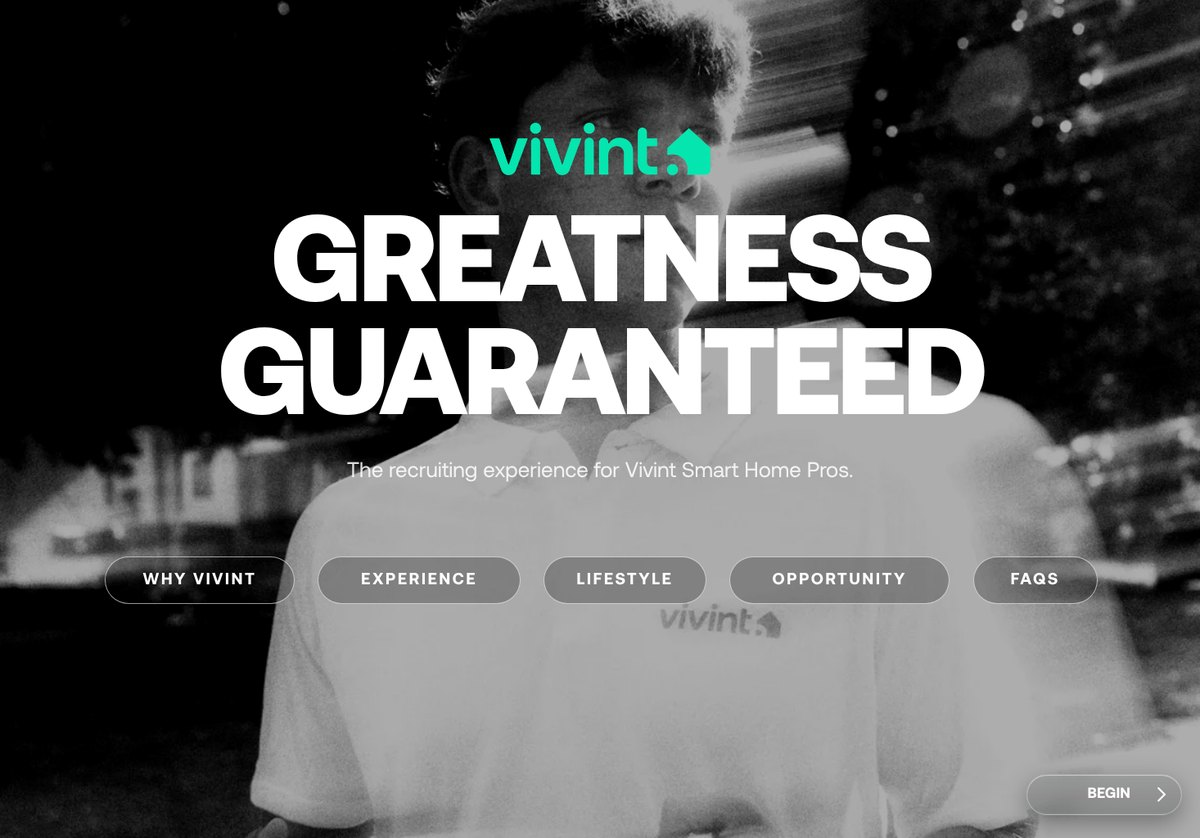
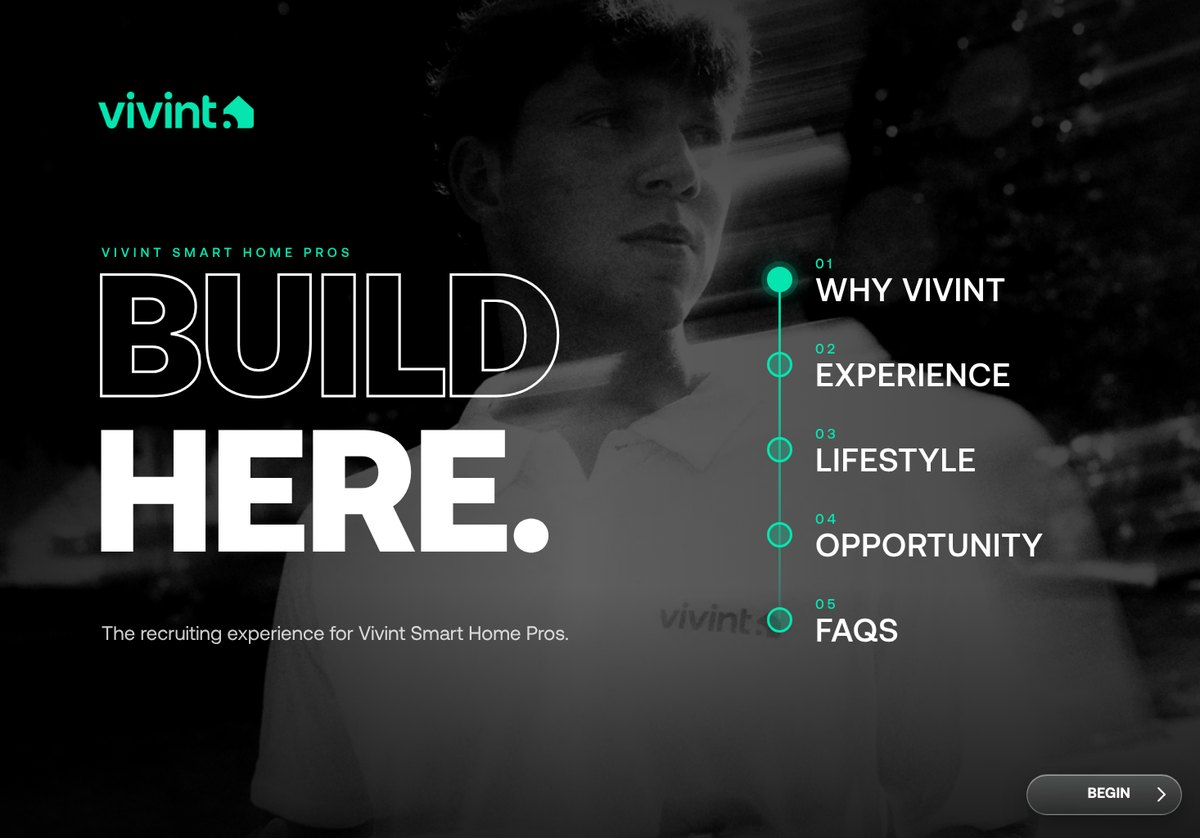
New landing page: BUILD HERE. headline and an enlarged section-menu style page list; link preview updated
Claude-Session: https://claude.ai/code/session_01UpWN8MKEyV4Vr82z9ArVS7

diff --git a/sw.js b/sw.js
@@ -1,5 +1,5 @@
 // Fast Recruit offline cache: everything except videos is saved on first launch, so the app opens without a connection.
-const V = 'fast-recruit-503f0cc7c2', PRE = ["a_0408edb82f30f336bffac638867be6bc.webp", "a_04b394b31439e528c8b5f63f44f2a0b6.webp", "a_0aa06d83464b8820edd3bfc544a95cee.webp", "a_0d2ddb52f866e46cd8388590667d4c4d.webp", "a_0d913801e34e1d8a11033ceaafd14109.webp", "a_11959d1d46bcbd5717b0bc54cf83e844.webp", "a_1288f43855ea422608fa8af379d37338.webp", "a_18c6da209798ef64b8e1ffbceaf69291.otf", "a_18cbdd108bdf9f60674f40f456e7f375.otf", "a_1b2f09f21b54334297a322358e735a25.webp", "a_1b48837719f96a87e2b2cfe5e00346dc.webp", "a_1c68cbad2929c0da81c27fc6d34fca3c.png", "a_1d17da7e3562b1a110b7b09ae99010f6.webp", "a_1f3d709c32dbf093df6058f97a065641.webp", "a_21c6123734ba0110be5173f550db98c1.webp", "a_242f58b1436638aa5d29b0be31eca403.webp", "a_2485046ffdd3b92ec9ad5ced9538d99a.webp", "a_248ea547d804798e4cc1643061a9bf58.webp", "a_27059b77dcdcfcd20a817abb05db3c84.webp", "a_27974bda65412130fb0b1a0180854d97.webp", "a_2bc22f6e03ad960de86f8b6441fd3356.webp", "a_2cf1141ea024d7b06156b9c1da976cdf.webp", "a_2d7d677c8650b82e85a56ab43363272c.webp", "a_2f62f82154c8578e75cbd5c4838b0209.webp", "a_2f987e8f09c8de2c2234483a052585e2.webp", "a_30ad318aafac9fa8373f5cda60a0dc98.webp", "a_37831b9db94c5cf6a5bfda59503cbb02.webp", "a_3796b33cd0cc8a96d19cb4a99123b36c.webp", "a_39fe3c98e1c5bcea7ff0bf6de0a49b7a.webp", "a_3a2bcdc743cdec4e9dd1e45e04457547.otf", "a_3b0d5c51a89c14bea925cd241350a524.webp", "a_3bbe4390dbec137628c1521f6b657ab5.otf", "a_3d6cd5c603a10c6bd739c4396c62af17.webp", "a_3efc6ac4570303d6ef7e4a1a90617627.webp", "a_3f74f38e9c213111b169c5cf8991d830.webp", "a_42cae177dbf79313c5934dab3c3a7f2d.webp", "a_4350cce9bf86210af2f6b19b3d2b5e87.webp", "a_43a447eff7f469789dda51c124f0ca52.webp", "a_43fd0985e8c32c602f354dadbeea41aa.webp", "a_44b612d3f72956ce700bac57dab2a4a1.webp", "a_47aa3911a6c7914f134c1a7d565cd861.webp", "a_49a1ff6541c1eddf28e1fe4276cd8080.webp", "a_4a93498586ade0b65522c8d8e83b85a8.webp", "a_4c54ea5a368d41c1370d8f42bd358f40.webp", "a_4eb515036f76ce2183e58dc42868fc44.webp", "a_52eac5d62e395739f7b8e3b9c2b70515.webp", "a_53a4e94a2219624d3d93646b7280df96.webp", "a_54b728689a022f1937d26139a645bc9d.webp", "a_559acad5ae1afbaa1a07ab562568c842.png", "a_56045168c18f6f28a36b9850374ffb27.webp", "a_5773f25323ca6b7991f223248a94726d.webp", "a_59a23c3ad3bf595bf4535f11186f4406.otf", "a_5a059e4c0c6879b04d9401b9be03561d.webp", "a_5e853c436589567cf4f4286f1fc3a5e6.webp", "a_603bb16680e43b65aa02dbc28e2c013f.webp", "a_6077066d3817389a8ff4daaf416af644.webp", "a_6136d8598de34dfb02d8d5ecb97d510c.webp", "a_61e371568ed904f426b41958220c1603.webp", "a_623129128d2c0c71a36aa8cc1e636f1d.webp", "a_645220e9685b361d863b496a33908a63.webp", "a_6721230c3ebd9ae91f943e5d829309b0.webp", "a_6942b1b86be02223eb31e212e3ebda06.webp", "a_6a1df764c1da42bf03a018a4bd5b75ea.webp", "a_6bc7b27335de198506d151756b0b694b.otf", "a_6c29f25842e1f7717406736e1e091fda.webp", "a_6c69e336cca8c7a1880b2d8afd97465c.webp", "a_703e423ff80101dab818d16f2eff4e12.webp", "a_71818041660c2fa4454b5fc26642b2d7.webp", "a_721134187c1e3cb84a6169cd7d3451f6.otf", "a_72b2d30961d461ab9c866f0db648b2ea.webp", "a_72ef2470189b8e8d8620a3e4c1217c54.webp", "a_75443e2b0cdfdf348c8b32293954e9f1.webp", "a_7ac79c527f6187bd92021934701620ac.otf", "a_7bb8c1b0aea1d21a786469b94284e33a.webp", "a_7bfeca4ff214bc1f15c80c3e08ceb8a1.otf", "a_7e419ea00d236e4abec94bb07c68be79.webp", "a_7ee3fe43146089c6287839f24935de69.webp", "a_812e61e5191550722d0513bd4de866fa.webp", "a_812f7ba9284a5123ce0aed7d655602a6.webp", "a_876a1fe2bbfdcaadb69c46bef14dd5ab.webp", "a_8817e3e4838dc66c7705da3edba9ee4e.webp", "a_89d381328713affff7bdf1d1beb1569b.webp", "a_8c8249759af7dff87ef6df8a8a645f23.webp", "a_8c8b7db52ce1c0a7ed3b1cb2a4d6c799.webp", "a_8cdc7c93880be0cdf12850c3e33aad46.webp", "a_8e86da81ac279b8fd8f97801c2f29716.webp", "a_92713904c7fb1bf9225b19e0f3c9e748.webp", "a_9472be87e42bbc64e1a97a23494f6d61.webp", "a_95b94717727cf7a06b4ab04076c6c27e.webp", "a_971f9d9f94efd2f4bd9a233f51926f6d.webp", "a_993fc35b62a39addbac11c5143570d34.webp", "a_9a9951a9137854ed9078fbddbd40e9b5.webp", "a_9d43e082c98277b9345c063d4ea336ab.webp", "a_9e37956db89b453f45ff780847793061.png", "a_9f3bf660b6eb1ce16cd77e37f8bc7707.webp", "a_a3107c78868cb9924be75b24efabb2c0.webp", "a_a5ca951b24e4d1c9f8ebcdb4b9c33557.webp", "a_a661bcc467d3c851dbcb1983a26ff820.webp", "a_a7f3329f91bcad3fe06bb1634b16cd20.webp", "a_a7f5c9a2768f8fe1a2d442edf058dcaf.webp", "a_aae93dc4ab0ed6a37fdc7bb0d21cb358.webp", "a_abc1996550735d37aeee3ab560cd78fa.webp", "a_b0145f4c014443135ff90c7fec0d2a12.webp", "a_b025aed39c8d816367587f4a155fa333.webp", "a_b23e0c00eb3fa1c96f93c6adf72230ea.webp", "a_b53317ee4bde42fe03940ceff40297fc.webp", "a_b5a9f97fec8a450c5e4071098f0a4c7a.webp", "a_b8da9cf3868de55e9410abbc902ac464.webp", "a_baab866c48068b16edbc13cec09c9f98.webp", "a_bdd6b4fe4a2b52d907d354736c5dcdff.webp", "a_be3a7b2cc5c42f12e6fb1b4ab62727dd.webp", "a_c3ee80b47f4cefa711e4ae8388f7d600.otf", "a_c4153cc59dcd5b3845cfdc97dd908f19.webp", "a_c4514d8bae30da00c9166cc05f0ff764.webp", "a_c5cf5e5b726ee7bad5533a2bf3b59ee2.png", "a_c69348bf07426152f69f355455c0a7a3.webp", "a_cdaba01fb6c09da85514dd164bda31e2.otf", "a_cdcb3af09b7ae03ac5a419d1f3c56d06.webp", "a_cf726eb166f17589ae13f71cb0404f59.webp", "a_d18bc454c994bcdf2ef993c90e5ffc8e.webp", "a_d224681f8eb11ed34f1d0c3a2cfc71b4.otf", "a_d2ae296207a473ed8243a83a24dda951.webp", "a_d416d4ecb336013e47f9c1cd4f0526f1.webp", "a_dca51196a80ae2cb04adf945855ea283.webp", "a_dcb95084f01d957fcc91fe21982a44f4.webp", "a_dd647bf93d36575ec782f453f0193f8e.otf", "a_de9eed867877409028061b22235fb468.webp", "a_df10c8837c9e986ece1471c88f2beabc.webp", "a_dfe646b0d086879c6e746523ffd45599.webp", "a_e34b82d397ba79fb1ddf5160c815287c.webp", "a_e79923f32b5e52e29084d9bfa523c401.webp", "a_e886f8e86180c42f96109338d7877c5b.webp", "a_e91e21ff31fe8facf0cc1ddf1f2cda77.webp", "a_e98fb0624b5c8221e68bf451ee25d97b.webp", "a_e9c4d6c2c2548b1a4ab4825c9860d5e1.webp", "a_f16555e229b0d3f53d797beb6a44cbb2.webp", "a_f41b71be9e283ce9a428f9407f93e11e.webp", "a_f55b2e71a0253a1fa7d1eec85f7afe05.webp", "a_f683655a1c68b210adf194cbf62bd7dc.webp", "a_f747a8b7f6c1c141c16a0df8b539fe5c.otf", "a_f9d6d41fd957efa1b2bebdc58f7d670f.webp", "a_fb737a5fe9ec3193ba239f5a589dcb66.webp", "a_fb9b1a4fed5c17172ce9dba78f99c32f.webp", "a_ff412b1956c7660da83a2975c3e29a8e.webp", "a_fff50c09d38f99818c907ae17fc2676e.webp", "am_04b394b31439e528c8b5f63f44f2a0b6.webp", "am_05907ad564dbbee1b725e11dfe61c164.webp", "am_0ae914cc303f1b14d10398f409e89f2d.webp", "am_12c880a04bc45bd5295bba6da7c4c811.webp", "am_1670aaaa901b257243c17e74d5e70c2f.webp", "am_19a9f30b96da1c37c75b45712cce806f.webp", "am_1b48837719f96a87e2b2cfe5e00346dc.webp", "am_1b9d736047fcdf3e5414c04bfa499fc5.webp", "am_1c98b66b51ca0675993321e95a01adc0.webp", "am_1d17da7e3562b1a110b7b09ae99010f6.webp", "am_1f3d709c32dbf093df6058f97a065641.webp", "am_2028ceacef7a3d9794d62b457e037e65.webp", "am_242f58b1436638aa5d29b0be31eca403.webp", "am_27974bda65412130fb0b1a0180854d97.webp", "am_2cf1141ea024d7b06156b9c1da976cdf.webp", "am_355f9936f19ec153715b1946202beb5b.webp", "am_3796b33cd0cc8a96d19cb4a99123b36c.webp", "am_39fe3c98e1c5bcea7ff0bf6de0a49b7a.webp", "am_3b0d5c51a89c14bea925cd241350a524.webp", "am_42cae177dbf79313c5934dab3c3a7f2d.webp", "am_453898bb40a590bec02c96072ecdfa06.webp", "am_48ee496ca0b2ca47f73ee8922fa920f3.webp", "am_4c54ea5a368d41c1370d8f42bd358f40.webp", "am_5280c3f3d0f6da932ce1b43035e6b12a.webp", "am_52eac5d62e395739f7b8e3b9c2b70515.webp", "am_53a4e94a2219624d3d93646b7280df96.webp", "am_559acad5ae1afbaa1a07ab562568c842.webp", "am_5d97f06d266185fa60dec1e5027d9243.webp", "am_5e853c436589567cf4f4286f1fc3a5e6.webp", "am_603bb16680e43b65aa02dbc28e2c013f.webp", "am_6136d8598de34dfb02d8d5ecb97d510c.webp", "am_61e371568ed904f426b41958220c1603.webp", "am_623129128d2c0c71a36aa8cc1e636f1d.webp", "am_6721230c3ebd9ae91f943e5d829309b0.webp", "am_675c63b4e94b022eb2cc5010da119b80.webp", "am_6c29f25842e1f7717406736e1e091fda.webp", "am_6c69e336cca8c7a1880b2d8afd97465c.webp", "am_703e423ff80101dab818d16f2eff4e12.webp", "am_71657b01c835ce6e55e751af2ab0ef18.webp", "am_7bb8c1b0aea1d21a786469b94284e33a.webp", "am_7cebbf09967857148e7a37ea060aa39e.webp", "am_7cf127109cf683ca2c040533c6c9aee8.webp", "am_7ee3fe43146089c6287839f24935de69.webp", "am_858f0c6afb1bddb0d50e7c5325d74dfc.webp", "am_8599b9782d9049397002b3cac22994e3.webp", "am_8c8b7db52ce1c0a7ed3b1cb2a4d6c799.webp", "am_8ea796e98761b3176b69fa2b3666ce20.webp", "am_91778effb50c25d8cc4c319beeed6287.webp", "am_92713904c7fb1bf9225b19e0f3c9e748.webp", "am_9607a9522dd50fe97b0bc18097c6e255.webp", "am_9694a9e4fe16263a16d97581e3cd7edf.webp", "am_971f9d9f94efd2f4bd9a233f51926f6d.webp", "am_9b0ad1860e2b6446d96c2ba73803707c.webp", "am_9f3bf660b6eb1ce16cd77e37f8bc7707.webp", "am_a17b67c1050b5160ea9875fa56dfb3a7.webp", "am_a661bcc467d3c851dbcb1983a26ff820.webp", "am_aa16ac714dff2392ae2418ca3bdcc754.webp", "am_adabc795359a0b2ec2996347af1a22c0.webp", "am_b0145f4c014443135ff90c7fec0d2a12.webp", "am_b0537f226465fdf740812e5983b9db0f.webp", "am_b1737d73b2d22f159840f6378141adb0.webp", "am_b9d785296cf8448714bbe53f09be1e4e.webp", "am_bb84cb5b5d533d10ca8b3abae1e11e1c.webp", "am_bba15889688ee105fc0410405a8166f8.webp", "am_bdd6b4fe4a2b52d907d354736c5dcdff.webp", "am_bdf2c0d7eaa637cd592f34050ac8d9ff.webp", "am_be3a7b2cc5c42f12e6fb1b4ab62727dd.webp", "am_c2e862b99c546805c64a9ff7a1f8c762.webp", "am_c3fe7ad545a80070379bcb8cbbadab27.webp", "am_c4514d8bae30da00c9166cc05f0ff764.webp", "am_c493941f8350fc9d6320e592f6cab613.webp", "am_c941727c6d34a1cda7852cdf7ebbd68c.webp", "am_cbeba98ecc3471538804c6d9df0c2f88.webp", "am_db60120848e353dcda3101af17db5b8f.webp", "am_dcb95084f01d957fcc91fe21982a44f4.webp", "am_de596b031edb77b80fbf49bdf8146683.webp", "am_de9eed867877409028061b22235fb468.webp", "am_e1b2b76c7984dd11ef99c10cad36b44a.webp", "am_e34b82d397ba79fb1ddf5160c815287c.webp", "am_f8319d6755d98fc68fdd7cf9ccf4353c.webp", "am_f9d6d41fd957efa1b2bebdc58f7d670f.webp", "am_fb737a5fe9ec3193ba239f5a589dcb66.webp", "am_fb9b1a4fed5c17172ce9dba78f99c32f.webp", "am_ff412b1956c7660da83a2975c3e29a8e.webp", "am_fff50c09d38f99818c907ae17fc2676e.webp", "apple-touch-icon.png", "boards_Culture.json", "boards_Experience.json", "boards_FAQs.json", "boards_GotG-Video.json", "boards_Main.json", "boards_Opportunity.json", "boards_Recruiting-Guide.json", "boards_Snoop-Dogg-Video.json", "boards_Welcome-Video.json", "boards_Why-Vivint.json", "fonts.css", "icon.png", "img_05907ad564dbbee1b725e11dfe61c164.webp", "img_0ae914cc303f1b14d10398f409e89f2d.webp", "img_0b256cc75bdc23dfba5f3eea59d86f81.webp", "img_0c7598eb4be73ac09d8d2fe63a25b7b1.webp", "img_0c7adf6fa9ff11cd71fe8f71ca33cd9a.webp", "img_129a5e21769c39c130fb44377f05b4df.webp", "img_12c880a04bc45bd5295bba6da7c4c811.webp", "img_1670aaaa901b257243c17e74d5e70c2f.webp", "img_19a9f30b96da1c37c75b45712cce806f.webp", "img_1a6eba5e89a2d2a6663ea32f2e34151c.webp", "img_1a7b0560c75c2a5f1119e1323a3ed10b.webp", "img_1b5e10b2f4032e9a62834f028db6e0f2.webp", "img_1b9d736047fcdf3e5414c04bfa499fc5.webp", "img_1c98b66b51ca0675993321e95a01adc0.webp", "img_2028ceacef7a3d9794d62b457e037e65.webp", "img_24fbba54bc00194dc502a987ab81c0a6.webp", "img_26f2e4db5f803272e92ed59d98b50d6b.webp", "img_2a85c38cc7568f740fc8803a72437f29.webp", "img_2d6c3a7de66b63e6f4720fbfb0d2068f.webp", "img_31801c70b7260f2f989127fbed363ae5.webp", "img_355f9936f19ec153715b1946202beb5b.webp", "img_3caa0404ac1151188391b4191f94f3cb.webp", "img_3f0db83da582e7a4f979ab2ca138f214.webp", "img_41b972b88ad33269ddffbe068f75aab8.webp", "img_42d49f3cc48536ca44b797451710767a.webp", "img_453898bb40a590bec02c96072ecdfa06.webp", "img_45ef94813427f0ad6e891e9f7d8b88b2.webp", "img_46222d59747ca2c634724d9c4e2ef173.webp", "img_48ee496ca0b2ca47f73ee8922fa920f3.webp", "img_4de099bb7df937ccf709fa9666861a80.webp", "img_4f920fc796ce9d091e47279cead55ae0.webp", "img_516d3c79a8617921fa4da26a8e07e98b.webp", "img_51f54a8acaf47d7594dab4e00b07c89f.webp", "img_5280c3f3d0f6da932ce1b43035e6b12a.webp", "img_54d7143d1f2d8d75497255d92b9eb31c.webp", "img_5524cd85c7704548b2d1d6aa820e0287.webp", "img_56e2d379b66c7888c7709226c8f90efa.webp", "img_5728388fb97cf50298561465799fa780.webp", "img_5a9f48bfc77b4d26a3f6c4f2d62d4d23.webp", "img_5ce5ebb31e28efc1fa0fb4e9667b9cb9.webp", "img_5d97f06d266185fa60dec1e5027d9243.webp", "img_5dc88adba8f9a99f1c281c329af64313.webp", "img_5f6fd86e43ace1b0090a9d3aeb70375d.webp", "img_605fb61f9786b2a5d9582c69d61055e5.webp", "img_6178596253328b87eb3123009363c918.webp", "img_675c63b4e94b022eb2cc5010da119b80.webp", "img_675cd9498cc3b0252dd686aaca340c97.webp", "img_6ae616b07211856a5fa8294864c86edb.webp", "img_6d5fd0e3fd2a48c3f22f3f95d9ff3ad0.webp", "img_71657b01c835ce6e55e751af2ab0ef18.webp", "img_7413c043893eaf0ecb3d8efca9ad4cf8.webp", "img_77c13078a7f69a1511ee7ddaae19dd0c.webp", "img_7cebbf09967857148e7a37ea060aa39e.webp", "img_7cf127109cf683ca2c040533c6c9aee8.webp", "img_858f0c6afb1bddb0d50e7c5325d74dfc.webp", "img_8599b9782d9049397002b3cac22994e3.webp", "img_869ed56e865621078ebf3f0fb5778fd8.webp", "img_86a20d832ff369a9884103dee786a5a2.webp", "img_8a8a0a125221ee0be9e52109d1e0f519.webp", "img_8d265b2ad9d11fd3faad7360c4d534d3.webp", "img_8ea796e98761b3176b69fa2b3666ce20.webp", "img_900776e54b6934627bdb571ff27d0689.webp", "img_91778effb50c25d8cc4c319beeed6287.webp", "img_946150e8c56f6c0ec688fd917486b3a4.webp", "img_9607a9522dd50fe97b0bc18097c6e255.webp", "img_9694a9e4fe16263a16d97581e3cd7edf.webp", "img_99bc5fd56ed72d7b7ff3f1cbda4ce065.webp", "img_9b0ad1860e2b6446d96c2ba73803707c.webp", "img_9ce5083a08036aa7e878544709c9d6d6.webp", "img_a170e0b09e19d52f57be7ca9cf7a120c.webp", "img_a17b67c1050b5160ea9875fa56dfb3a7.webp", "img_a603d5c49e9b335e7624eb5ea243f219.webp", "img_a9f520f4ae202a9f1ea9b53795c958f3.webp", "img_aa16ac714dff2392ae2418ca3bdcc754.webp", "img_ac329247c9dbb4e3cc84e7ad2c82dba3.webp", "img_ad01c76380611c105356096e9efdf4a9.webp", "img_ad165e976d84210df59355e36550b202.webp", "img_adabc795359a0b2ec2996347af1a22c0.webp", "img_aec35be7e057f6a47e41b5091469c018.webp", "img_b0537f226465fdf740812e5983b9db0f.webp", "img_b1737d73b2d22f159840f6378141adb0.webp", "img_b27a297fffaea72fab4313a73b0460cb.webp", "img_b832dac97ed7663dcfb10bc0454613fb.webp", "img_b9d785296cf8448714bbe53f09be1e4e.webp", "img_bb84cb5b5d533d10ca8b3abae1e11e1c.webp", "img_bba15889688ee105fc0410405a8166f8.webp", "img_bdf2c0d7eaa637cd592f34050ac8d9ff.webp", "img_be335536ad984e40f420845bb296d971.webp", "img_be7ad875ca0d4d50c2e515aea1178678.webp", "img_c0a00c7849108d8922ab0260cd9e1aa6.webp", "img_c2e862b99c546805c64a9ff7a1f8c762.webp", "img_c3fe7ad545a80070379bcb8cbbadab27.webp", "img_c493941f8350fc9d6320e592f6cab613.webp", "img_c6b1695a55dbddc837738bd64056debc.webp", "img_c8aa3d228f49d291ac25494c523e6e0f.webp", "img_c941727c6d34a1cda7852cdf7ebbd68c.webp", "img_cb77cf03c75597b0765794cf43eb54f1.webp", "img_cbeba98ecc3471538804c6d9df0c2f88.webp", "img_cd9f4a19d63dcfb12698bc0e1d36cf4f.webp", "img_db60120848e353dcda3101af17db5b8f.webp", "img_de209146c98178546895037bc99dd766.webp", "img_de596b031edb77b80fbf49bdf8146683.webp", "img_dea360f04b934a32b79b40603a19b31a.webp", "img_e057644b6672ece0173761cdc5df2967.webp", "img_e0b7c45313758233cd7aa20e8b040cac.webp", "img_e14f9c718f3269bc55e3b744cdb52aa4.webp", "img_e1b2b76c7984dd11ef99c10cad36b44a.webp", "img_e1cc2c5eb2a1ad2ace58fa881947f105.webp", "img_e49c63e6177cd0fc2a06cb2062482ac6.webp", "img_e72fd69788ab0c694cbf4537d6bbcb30.webp", "img_f0a0d00a2ff8cb3871bdf48dcebd60b6.webp", "img_f3011c2564d3d8b84f451ee3c81c032a.webp", "img_f50d45b7448fb23a45de4c26fa2fd21d.webp", "img_f66af132bf982ef6846d2eeac7968a2c.webp", "img_f8319d6755d98fc68fdd7cf9ccf4353c.webp", "img_fa7fcac49d1c0108879b1a84edb44b7c.webp", "img_facf36f4c9e35f73db944daccff4160e.webp", "img_fc84e3cc7279e2d1a8dc5776b0800cce.webp", "img_fe7546734f30aa989acba8a09c4d682c.webp", "img_ff6bbffb15a4d12e16ea0d54a2fc6bc9.webp", "index.html", "manifest.webmanifest", "og.jpg", "proto.json", "./"];
+const V = 'fast-recruit-7594dd4083', PRE = ["a_0408edb82f30f336bffac638867be6bc.webp", "a_04b394b31439e528c8b5f63f44f2a0b6.webp", "a_0aa06d83464b8820edd3bfc544a95cee.webp", "a_0d2ddb52f866e46cd8388590667d4c4d.webp", "a_0d913801e34e1d8a11033ceaafd14109.webp", "a_11959d1d46bcbd5717b0bc54cf83e844.webp", "a_1288f43855ea422608fa8af379d37338.webp", "a_18c6da209798ef64b8e1ffbceaf69291.otf", "a_18cbdd108bdf9f60674f40f456e7f375.otf", "a_1b2f09f21b54334297a322358e735a25.webp", "a_1b48837719f96a87e2b2cfe5e00346dc.webp", "a_1c68cbad2929c0da81c27fc6d34fca3c.png", "a_1d17da7e3562b1a110b7b09ae99010f6.webp", "a_1f3d709c32dbf093df6058f97a065641.webp", "a_21c6123734ba0110be5173f550db98c1.webp", "a_242f58b1436638aa5d29b0be31eca403.webp", "a_2485046ffdd3b92ec9ad5ced9538d99a.webp", "a_248ea547d804798e4cc1643061a9bf58.webp", "a_27059b77dcdcfcd20a817abb05db3c84.webp", "a_27974bda65412130fb0b1a0180854d97.webp", "a_2bc22f6e03ad960de86f8b6441fd3356.webp", "a_2cf1141ea024d7b06156b9c1da976cdf.webp", "a_2d7d677c8650b82e85a56ab43363272c.webp", "a_2f62f82154c8578e75cbd5c4838b0209.webp", "a_2f987e8f09c8de2c2234483a052585e2.webp", "a_30ad318aafac9fa8373f5cda60a0dc98.webp", "a_37831b9db94c5cf6a5bfda59503cbb02.webp", "a_3796b33cd0cc8a96d19cb4a99123b36c.webp", "a_39fe3c98e1c5bcea7ff0bf6de0a49b7a.webp", "a_3a2bcdc743cdec4e9dd1e45e04457547.otf", "a_3b0d5c51a89c14bea925cd241350a524.webp", "a_3bbe4390dbec137628c1521f6b657ab5.otf", "a_3d6cd5c603a10c6bd739c4396c62af17.webp", "a_3efc6ac4570303d6ef7e4a1a90617627.webp", "a_3f74f38e9c213111b169c5cf8991d830.webp", "a_42cae177dbf79313c5934dab3c3a7f2d.webp", "a_4350cce9bf86210af2f6b19b3d2b5e87.webp", "a_43a447eff7f469789dda51c124f0ca52.webp", "a_43fd0985e8c32c602f354dadbeea41aa.webp", "a_44b612d3f72956ce700bac57dab2a4a1.webp", "a_47aa3911a6c7914f134c1a7d565cd861.webp", "a_49a1ff6541c1eddf28e1fe4276cd8080.webp", "a_4a93498586ade0b65522c8d8e83b85a8.webp", "a_4c54ea5a368d41c1370d8f42bd358f40.webp", "a_4eb515036f76ce2183e58dc42868fc44.webp", "a_52eac5d62e395739f7b8e3b9c2b70515.webp", "a_53a4e94a2219624d3d93646b7280df96.webp", "a_54b728689a022f1937d26139a645bc9d.webp", "a_559acad5ae1afbaa1a07ab562568c842.png", "a_56045168c18f6f28a36b9850374ffb27.webp", "a_5773f25323ca6b7991f223248a94726d.webp", "a_59a23c3ad3bf595bf4535f11186f4406.otf", "a_5a059e4c0c6879b04d9401b9be03561d.webp", "a_5e853c436589567cf4f4286f1fc3a5e6.webp", "a_603bb16680e43b65aa02dbc28e2c013f.webp", "a_6077066d3817389a8ff4daaf416af644.webp", "a_6136d8598de34dfb02d8d5ecb97d510c.webp", "a_61e371568ed904f426b41958220c1603.webp", "a_623129128d2c0c71a36aa8cc1e636f1d.webp", "a_645220e9685b361d863b496a33908a63.webp", "a_6721230c3ebd9ae91f943e5d829309b0.webp", "a_6942b1b86be02223eb31e212e3ebda06.webp", "a_6a1df764c1da42bf03a018a4bd5b75ea.webp", "a_6bc7b27335de198506d151756b0b694b.otf", "a_6c29f25842e1f7717406736e1e091fda.webp", "a_6c69e336cca8c7a1880b2d8afd97465c.webp", "a_703e423ff80101dab818d16f2eff4e12.webp", "a_71818041660c2fa4454b5fc26642b2d7.webp", "a_721134187c1e3cb84a6169cd7d3451f6.otf", "a_72b2d30961d461ab9c866f0db648b2ea.webp", "a_72ef2470189b8e8d8620a3e4c1217c54.webp", "a_75443e2b0cdfdf348c8b32293954e9f1.webp", "a_7ac79c527f6187bd92021934701620ac.otf", "a_7bb8c1b0aea1d21a786469b94284e33a.webp", "a_7bfeca4ff214bc1f15c80c3e08ceb8a1.otf", "a_7e419ea00d236e4abec94bb07c68be79.webp", "a_7ee3fe43146089c6287839f24935de69.webp", "a_812e61e5191550722d0513bd4de866fa.webp", "a_812f7ba9284a5123ce0aed7d655602a6.webp", "a_876a1fe2bbfdcaadb69c46bef14dd5ab.webp", "a_8817e3e4838dc66c7705da3edba9ee4e.webp", "a_89d381328713affff7bdf1d1beb1569b.webp", "a_8c8249759af7dff87ef6df8a8a645f23.webp", "a_8c8b7db52ce1c0a7ed3b1cb2a4d6c799.webp", "a_8cdc7c93880be0cdf12850c3e33aad46.webp", "a_8e86da81ac279b8fd8f97801c2f29716.webp", "a_92713904c7fb1bf9225b19e0f3c9e748.webp", "a_9472be87e42bbc64e1a97a23494f6d61.webp", "a_95b94717727cf7a06b4ab04076c6c27e.webp", "a_971f9d9f94efd2f4bd9a233f51926f6d.webp", "a_993fc35b62a39addbac11c5143570d34.webp", "a_9a9951a9137854ed9078fbddbd40e9b5.webp", "a_9d43e082c98277b9345c063d4ea336ab.webp", "a_9e37956db89b453f45ff780847793061.png", "a_9f3bf660b6eb1ce16cd77e37f8bc7707.webp", "a_a3107c78868cb9924be75b24efabb2c0.webp", "a_a5ca951b24e4d1c9f8ebcdb4b9c33557.webp", "a_a661bcc467d3c851dbcb1983a26ff820.webp", "a_a7f3329f91bcad3fe06bb1634b16cd20.webp", "a_a7f5c9a2768f8fe1a2d442edf058dcaf.webp", "a_aae93dc4ab0ed6a37fdc7bb0d21cb358.webp", "a_abc1996550735d37aeee3ab560cd78fa.webp", "a_b0145f4c014443135ff90c7fec0d2a12.webp", "a_b025aed39c8d816367587f4a155fa333.webp", "a_b23e0c00eb3fa1c96f93c6adf72230ea.webp", "a_b53317ee4bde42fe03940ceff40297fc.webp", "a_b5a9f97fec8a450c5e4071098f0a4c7a.webp", "a_b8da9cf3868de55e9410abbc902ac464.webp", "a_baab866c48068b16edbc13cec09c9f98.webp", "a_bdd6b4fe4a2b52d907d354736c5dcdff.webp", "a_be3a7b2cc5c42f12e6fb1b4ab62727dd.webp", "a_c3ee80b47f4cefa711e4ae8388f7d600.otf", "a_c4153cc59dcd5b3845cfdc97dd908f19.webp", "a_c4514d8bae30da00c9166cc05f0ff764.webp", "a_c5cf5e5b726ee7bad5533a2bf3b59ee2.png", "a_c69348bf07426152f69f355455c0a7a3.webp", "a_cdaba01fb6c09da85514dd164bda31e2.otf", "a_cdcb3af09b7ae03ac5a419d1f3c56d06.webp", "a_cf726eb166f17589ae13f71cb0404f59.webp", "a_d18bc454c994bcdf2ef993c90e5ffc8e.webp", "a_d224681f8eb11ed34f1d0c3a2cfc71b4.otf", "a_d2ae296207a473ed8243a83a24dda951.webp", "a_d416d4ecb336013e47f9c1cd4f0526f1.webp", "a_dca51196a80ae2cb04adf945855ea283.webp", "a_dcb95084f01d957fcc91fe21982a44f4.webp", "a_dd647bf93d36575ec782f453f0193f8e.otf", "a_de9eed867877409028061b22235fb468.webp", "a_df10c8837c9e986ece1471c88f2beabc.webp", "a_dfe646b0d086879c6e746523ffd45599.webp", "a_e34b82d397ba79fb1ddf5160c815287c.webp", "a_e79923f32b5e52e29084d9bfa523c401.webp", "a_e886f8e86180c42f96109338d7877c5b.webp", "a_e91e21ff31fe8facf0cc1ddf1f2cda77.webp", "a_e98fb0624b5c8221e68bf451ee25d97b.webp", "a_e9c4d6c2c2548b1a4ab4825c9860d5e1.webp", "a_f16555e229b0d3f53d797beb6a44cbb2.webp", "a_f41b71be9e283ce9a428f9407f93e11e.webp", "a_f55b2e71a0253a1fa7d1eec85f7afe05.webp", "a_f683655a1c68b210adf194cbf62bd7dc.webp", "a_f747a8b7f6c1c141c16a0df8b539fe5c.otf", "a_f9d6d41fd957efa1b2bebdc58f7d670f.webp", "a_fb737a5fe9ec3193ba239f5a589dcb66.webp", "a_fb9b1a4fed5c17172ce9dba78f99c32f.webp", "a_ff412b1956c7660da83a2975c3e29a8e.webp", "a_fff50c09d38f99818c907ae17fc2676e.webp", "am_04b394b31439e528c8b5f63f44f2a0b6.webp", "am_05907ad564dbbee1b725e11dfe61c164.webp", "am_0ae914cc303f1b14d10398f409e89f2d.webp", "am_12c880a04bc45bd5295bba6da7c4c811.webp", "am_1670aaaa901b257243c17e74d5e70c2f.webp", "am_19a9f30b96da1c37c75b45712cce806f.webp", "am_1b48837719f96a87e2b2cfe5e00346dc.webp", "am_1b9d736047fcdf3e5414c04bfa499fc5.webp", "am_1c98b66b51ca0675993321e95a01adc0.webp", "am_1d17da7e3562b1a110b7b09ae99010f6.webp", "am_1f3d709c32dbf093df6058f97a065641.webp", "am_2028ceacef7a3d9794d62b457e037e65.webp", "am_242f58b1436638aa5d29b0be31eca403.webp", "am_27974bda65412130fb0b1a0180854d97.webp", "am_2cf1141ea024d7b06156b9c1da976cdf.webp", "am_355f9936f19ec153715b1946202beb5b.webp", "am_3796b33cd0cc8a96d19cb4a99123b36c.webp", "am_39fe3c98e1c5bcea7ff0bf6de0a49b7a.webp", "am_3b0d5c51a89c14bea925cd241350a524.webp", "am_42cae177dbf79313c5934dab3c3a7f2d.webp", "am_453898bb40a590bec02c96072ecdfa06.webp", "am_48ee496ca0b2ca47f73ee8922fa920f3.webp", "am_4c54ea5a368d41c1370d8f42bd358f40.webp", "am_5280c3f3d0f6da932ce1b43035e6b12a.webp", "am_52eac5d62e395739f7b8e3b9c2b70515.webp", "am_53a4e94a2219624d3d93646b7280df96.webp", "am_559acad5ae1afbaa1a07ab562568c842.webp", "am_5d97f06d266185fa60dec1e5027d9243.webp", "am_5e853c436589567cf4f4286f1fc3a5e6.webp", "am_603bb16680e43b65aa02dbc28e2c013f.webp", "am_6136d8598de34dfb02d8d5ecb97d510c.webp", "am_61e371568ed904f426b41958220c1603.webp", "am_623129128d2c0c71a36aa8cc1e636f1d.webp", "am_6721230c3ebd9ae91f943e5d829309b0.webp", "am_675c63b4e94b022eb2cc5010da119b80.webp", "am_6c29f25842e1f7717406736e1e091fda.webp", "am_6c69e336cca8c7a1880b2d8afd97465c.webp", "am_703e423ff80101dab818d16f2eff4e12.webp", "am_71657b01c835ce6e55e751af2ab0ef18.webp", "am_7bb8c1b0aea1d21a786469b94284e33a.webp", "am_7cebbf09967857148e7a37ea060aa39e.webp", "am_7cf127109cf683ca2c040533c6c9aee8.webp", "am_7ee3fe43146089c6287839f24935de69.webp", "am_858f0c6afb1bddb0d50e7c5325d74dfc.webp", "am_8599b9782d9049397002b3cac22994e3.webp", "am_8c8b7db52ce1c0a7ed3b1cb2a4d6c799.webp", "am_8ea796e98761b3176b69fa2b3666ce20.webp", "am_91778effb50c25d8cc4c319beeed6287.webp", "am_92713904c7fb1bf9225b19e0f3c9e748.webp", "am_9607a9522dd50fe97b0bc18097c6e255.webp", "am_9694a9e4fe16263a16d97581e3cd7edf.webp", "am_971f9d9f94efd2f4bd9a233f51926f6d.webp", "am_9b0ad1860e2b6446d96c2ba73803707c.webp", "am_9f3bf660b6eb1ce16cd77e37f8bc7707.webp", "am_a17b67c1050b5160ea9875fa56dfb3a7.webp", "am_a661bcc467d3c851dbcb1983a26ff820.webp", "am_aa16ac714dff2392ae2418ca3bdcc754.webp", "am_adabc795359a0b2ec2996347af1a22c0.webp", "am_b0145f4c014443135ff90c7fec0d2a12.webp", "am_b0537f226465fdf740812e5983b9db0f.webp", "am_b1737d73b2d22f159840f6378141adb0.webp", "am_b9d785296cf8448714bbe53f09be1e4e.webp", "am_bb84cb5b5d533d10ca8b3abae1e11e1c.webp", "am_bba15889688ee105fc0410405a8166f8.webp", "am_bdd6b4fe4a2b52d907d354736c5dcdff.webp", "am_bdf2c0d7eaa637cd592f34050ac8d9ff.webp", "am_be3a7b2cc5c42f12e6fb1b4ab62727dd.webp", "am_c2e862b99c546805c64a9ff7a1f8c762.webp", "am_c3fe7ad545a80070379bcb8cbbadab27.webp", "am_c4514d8bae30da00c9166cc05f0ff764.webp", "am_c493941f8350fc9d6320e592f6cab613.webp", "am_c941727c6d34a1cda7852cdf7ebbd68c.webp", "am_cbeba98ecc3471538804c6d9df0c2f88.webp", "am_db60120848e353dcda3101af17db5b8f.webp", "am_dcb95084f01d957fcc91fe21982a44f4.webp", "am_de596b031edb77b80fbf49bdf8146683.webp", "am_de9eed867877409028061b22235fb468.webp", "am_e1b2b76c7984dd11ef99c10cad36b44a.webp", "am_e34b82d397ba79fb1ddf5160c815287c.webp", "am_f8319d6755d98fc68fdd7cf9ccf4353c.webp", "am_f9d6d41fd957efa1b2bebdc58f7d670f.webp", "am_fb737a5fe9ec3193ba239f5a589dcb66.webp", "am_fb9b1a4fed5c17172ce9dba78f99c32f.webp", "am_ff412b1956c7660da83a2975c3e29a8e.webp", "am_fff50c09d38f99818c907ae17fc2676e.webp", "apple-touch-icon.png", "boards_Culture.json", "boards_Experience.json", "boards_FAQs.json", "boards_GotG-Video.json", "boards_Main.json", "boards_Opportunity.json", "boards_Recruiting-Guide.json", "boards_Snoop-Dogg-Video.json", "boards_Welcome-Video.json", "boards_Why-Vivint.json", "fonts.css", "icon.png", "img_05907ad564dbbee1b725e11dfe61c164.webp", "img_0ae914cc303f1b14d10398f409e89f2d.webp", "img_0b256cc75bdc23dfba5f3eea59d86f81.webp", "img_0c7598eb4be73ac09d8d2fe63a25b7b1.webp", "img_0c7adf6fa9ff11cd71fe8f71ca33cd9a.webp", "img_129a5e21769c39c130fb44377f05b4df.webp", "img_12c880a04bc45bd5295bba6da7c4c811.webp", "img_1670aaaa901b257243c17e74d5e70c2f.webp", "img_19a9f30b96da1c37c75b45712cce806f.webp", "img_1a6eba5e89a2d2a6663ea32f2e34151c.webp", "img_1a7b0560c75c2a5f1119e1323a3ed10b.webp", "img_1b5e10b2f4032e9a62834f028db6e0f2.webp", "img_1b9d736047fcdf3e5414c04bfa499fc5.webp", "img_1c98b66b51ca0675993321e95a01adc0.webp", "img_2028ceacef7a3d9794d62b457e037e65.webp", "img_24fbba54bc00194dc502a987ab81c0a6.webp", "img_26f2e4db5f803272e92ed59d98b50d6b.webp", "img_2a85c38cc7568f740fc8803a72437f29.webp", "img_2d6c3a7de66b63e6f4720fbfb0d2068f.webp", "img_31801c70b7260f2f989127fbed363ae5.webp", "img_355f9936f19ec153715b1946202beb5b.webp", "img_3caa0404ac1151188391b4191f94f3cb.webp", "img_3f0db83da582e7a4f979ab2ca138f214.webp", "img_41b972b88ad33269ddffbe068f75aab8.webp", "img_42d49f3cc48536ca44b797451710767a.webp", "img_453898bb40a590bec02c96072ecdfa06.webp", "img_45ef94813427f0ad6e891e9f7d8b88b2.webp", "img_46222d59747ca2c634724d9c4e2ef173.webp", "img_48ee496ca0b2ca47f73ee8922fa920f3.webp", "img_4de099bb7df937ccf709fa9666861a80.webp", "img_4f920fc796ce9d091e47279cead55ae0.webp", "img_516d3c79a8617921fa4da26a8e07e98b.webp", "img_51f54a8acaf47d7594dab4e00b07c89f.webp", "img_5280c3f3d0f6da932ce1b43035e6b12a.webp", "img_54d7143d1f2d8d75497255d92b9eb31c.webp", "img_5524cd85c7704548b2d1d6aa820e0287.webp", "img_56e2d379b66c7888c7709226c8f90efa.webp", "img_5728388fb97cf50298561465799fa780.webp", "img_5a9f48bfc77b4d26a3f6c4f2d62d4d23.webp", "img_5ce5ebb31e28efc1fa0fb4e9667b9cb9.webp", "img_5d97f06d266185fa60dec1e5027d9243.webp", "img_5dc88adba8f9a99f1c281c329af64313.webp", "img_5f6fd86e43ace1b0090a9d3aeb70375d.webp", "img_605fb61f9786b2a5d9582c69d61055e5.webp", "img_6178596253328b87eb3123009363c918.webp", "img_675c63b4e94b022eb2cc5010da119b80.webp", "img_675cd9498cc3b0252dd686aaca340c97.webp", "img_6ae616b07211856a5fa8294864c86edb.webp", "img_6d5fd0e3fd2a48c3f22f3f95d9ff3ad0.webp", "img_71657b01c835ce6e55e751af2ab0ef18.webp", "img_7413c043893eaf0ecb3d8efca9ad4cf8.webp", "img_77c13078a7f69a1511ee7ddaae19dd0c.webp", "img_7cebbf09967857148e7a37ea060aa39e.webp", "img_7cf127109cf683ca2c040533c6c9aee8.webp", "img_858f0c6afb1bddb0d50e7c5325d74dfc.webp", "img_8599b9782d9049397002b3cac22994e3.webp", "img_869ed56e865621078ebf3f0fb5778fd8.webp", "img_86a20d832ff369a9884103dee786a5a2.webp", "img_8a8a0a125221ee0be9e52109d1e0f519.webp", "img_8d265b2ad9d11fd3faad7360c4d534d3.webp", "img_8ea796e98761b3176b69fa2b3666ce20.webp", "img_900776e54b6934627bdb571ff27d0689.webp", "img_91778effb50c25d8cc4c319beeed6287.webp", "img_946150e8c56f6c0ec688fd917486b3a4.webp", "img_9607a9522dd50fe97b0bc18097c6e255.webp", "img_9694a9e4fe16263a16d97581e3cd7edf.webp", "img_99bc5fd56ed72d7b7ff3f1cbda4ce065.webp", "img_9b0ad1860e2b6446d96c2ba73803707c.webp", "img_9ce5083a08036aa7e878544709c9d6d6.webp", "img_a170e0b09e19d52f57be7ca9cf7a120c.webp", "img_a17b67c1050b5160ea9875fa56dfb3a7.webp", "img_a603d5c49e9b335e7624eb5ea243f219.webp", "img_a9f520f4ae202a9f1ea9b53795c958f3.webp", "img_aa16ac714dff2392ae2418ca3bdcc754.webp", "img_ac329247c9dbb4e3cc84e7ad2c82dba3.webp", "img_ad01c76380611c105356096e9efdf4a9.webp", "img_ad165e976d84210df59355e36550b202.webp", "img_adabc795359a0b2ec2996347af1a22c0.webp", "img_aec35be7e057f6a47e41b5091469c018.webp", "img_b0537f226465fdf740812e5983b9db0f.webp", "img_b1737d73b2d22f159840f6378141adb0.webp", "img_b27a297fffaea72fab4313a73b0460cb.webp", "img_b832dac97ed7663dcfb10bc0454613fb.webp", "img_b9d785296cf8448714bbe53f09be1e4e.webp", "img_bb84cb5b5d533d10ca8b3abae1e11e1c.webp", "img_bba15889688ee105fc0410405a8166f8.webp", "img_bdf2c0d7eaa637cd592f34050ac8d9ff.webp", "img_be335536ad984e40f420845bb296d971.webp", "img_be7ad875ca0d4d50c2e515aea1178678.webp", "img_c0a00c7849108d8922ab0260cd9e1aa6.webp", "img_c2e862b99c546805c64a9ff7a1f8c762.webp", "img_c3fe7ad545a80070379bcb8cbbadab27.webp", "img_c493941f8350fc9d6320e592f6cab613.webp", "img_c6b1695a55dbddc837738bd64056debc.webp", "img_c8aa3d228f49d291ac25494c523e6e0f.webp", "img_c941727c6d34a1cda7852cdf7ebbd68c.webp", "img_cb77cf03c75597b0765794cf43eb54f1.webp", "img_cbeba98ecc3471538804c6d9df0c2f88.webp", "img_cd9f4a19d63dcfb12698bc0e1d36cf4f.webp", "img_db60120848e353dcda3101af17db5b8f.webp", "img_de209146c98178546895037bc99dd766.webp", "img_de596b031edb77b80fbf49bdf8146683.webp", "img_dea360f04b934a32b79b40603a19b31a.webp", "img_e057644b6672ece0173761cdc5df2967.webp", "img_e0b7c45313758233cd7aa20e8b040cac.webp", "img_e14f9c718f3269bc55e3b744cdb52aa4.webp", "img_e1b2b76c7984dd11ef99c10cad36b44a.webp", "img_e1cc2c5eb2a1ad2ace58fa881947f105.webp", "img_e49c63e6177cd0fc2a06cb2062482ac6.webp", "img_e72fd69788ab0c694cbf4537d6bbcb30.webp", "img_f0a0d00a2ff8cb3871bdf48dcebd60b6.webp", "img_f3011c2564d3d8b84f451ee3c81c032a.webp", "img_f50d45b7448fb23a45de4c26fa2fd21d.webp", "img_f66af132bf982ef6846d2eeac7968a2c.webp", "img_f8319d6755d98fc68fdd7cf9ccf4353c.webp", "img_fa7fcac49d1c0108879b1a84edb44b7c.webp", "img_facf36f4c9e35f73db944daccff4160e.webp", "img_fc84e3cc7279e2d1a8dc5776b0800cce.webp", "img_fe7546734f30aa989acba8a09c4d682c.webp", "img_ff6bbffb15a4d12e16ea0d54a2fc6bc9.webp", "index.html", "manifest.webmanifest", "og.jpg", "proto.json", "./"];
 self.addEventListener('install', e => e.waitUntil(caches.open(V).then(c => c.addAll(PRE)).then(() => self.skipWaiting())));
 self.addEventListener('activate', e => e.waitUntil(caches.keys().then(ks => Promise.all(ks.filter(k => k !== V).map(k => caches.delete(k)))).then(() => self.clients.claim())));
 self.addEventListener('fetch', e => {
